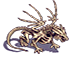
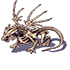
images rotated and board on choiceWindow added

diff --git a/board.py b/board.py
@@ -30,6 +30,7 @@ class Board:
             self.list_move.append(c)
         # значения по умолчанию
         self.size_k = 50
+        self.size_k1 = 65
         self.top = 50
         self.left = 50
         self.list_move = []
@@ -47,6 +48,13 @@ class Board:
                 pygame.draw.rect(screen, pygame.Color(str(color)),
                                 (self.left + self.size_k * j, self.top + self.size_k * i,
                                  self.size_k, self.size_k), 1)
+
+    def drawForChoice(self, color):
+        for i in range(self.num1):
+            for j in range(self.num2):
+                pygame.draw.rect(screen, pygame.Color(str(color)),
+                                (self.left + 110 + self.size_k1 * j, self.top + self.size_k1 * i,
+                                 self.size_k1, self.size_k1), 1)
 
     # функия получения координат клетки по типу [x, y] пример (0, 3)
     def get_coords(self, coord_x, coord_y):

diff --git a/choiceWindow.py b/choiceWindow.py
@@ -18,7 +18,7 @@ if __name__ == "__main__":
             if event.type == pygame.QUIT:   
                 running = False
         a.draw_sprite()
-        a.draw("white")
+        a.drawForChoice("white")
         pygame.display.flip()
     pygame.quit()
 
